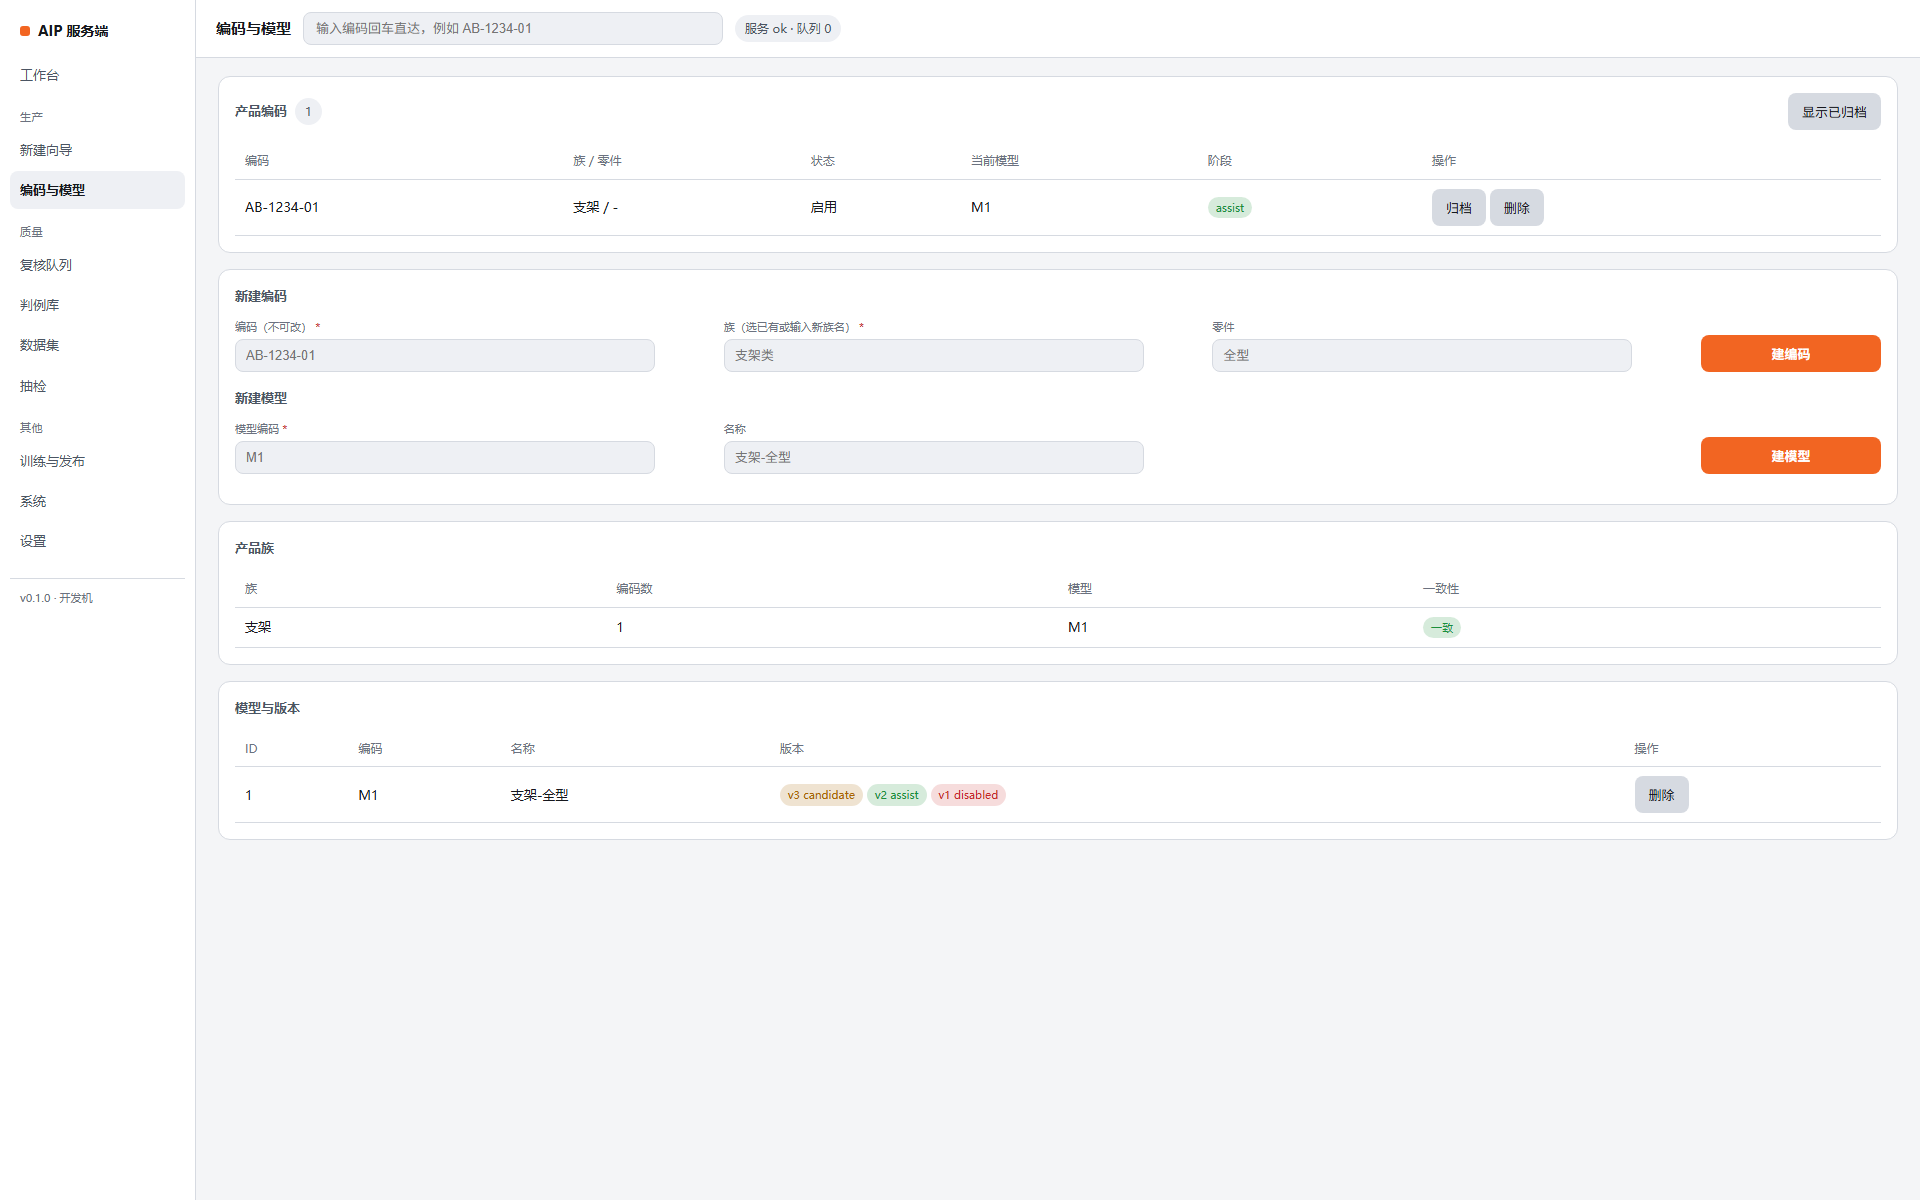
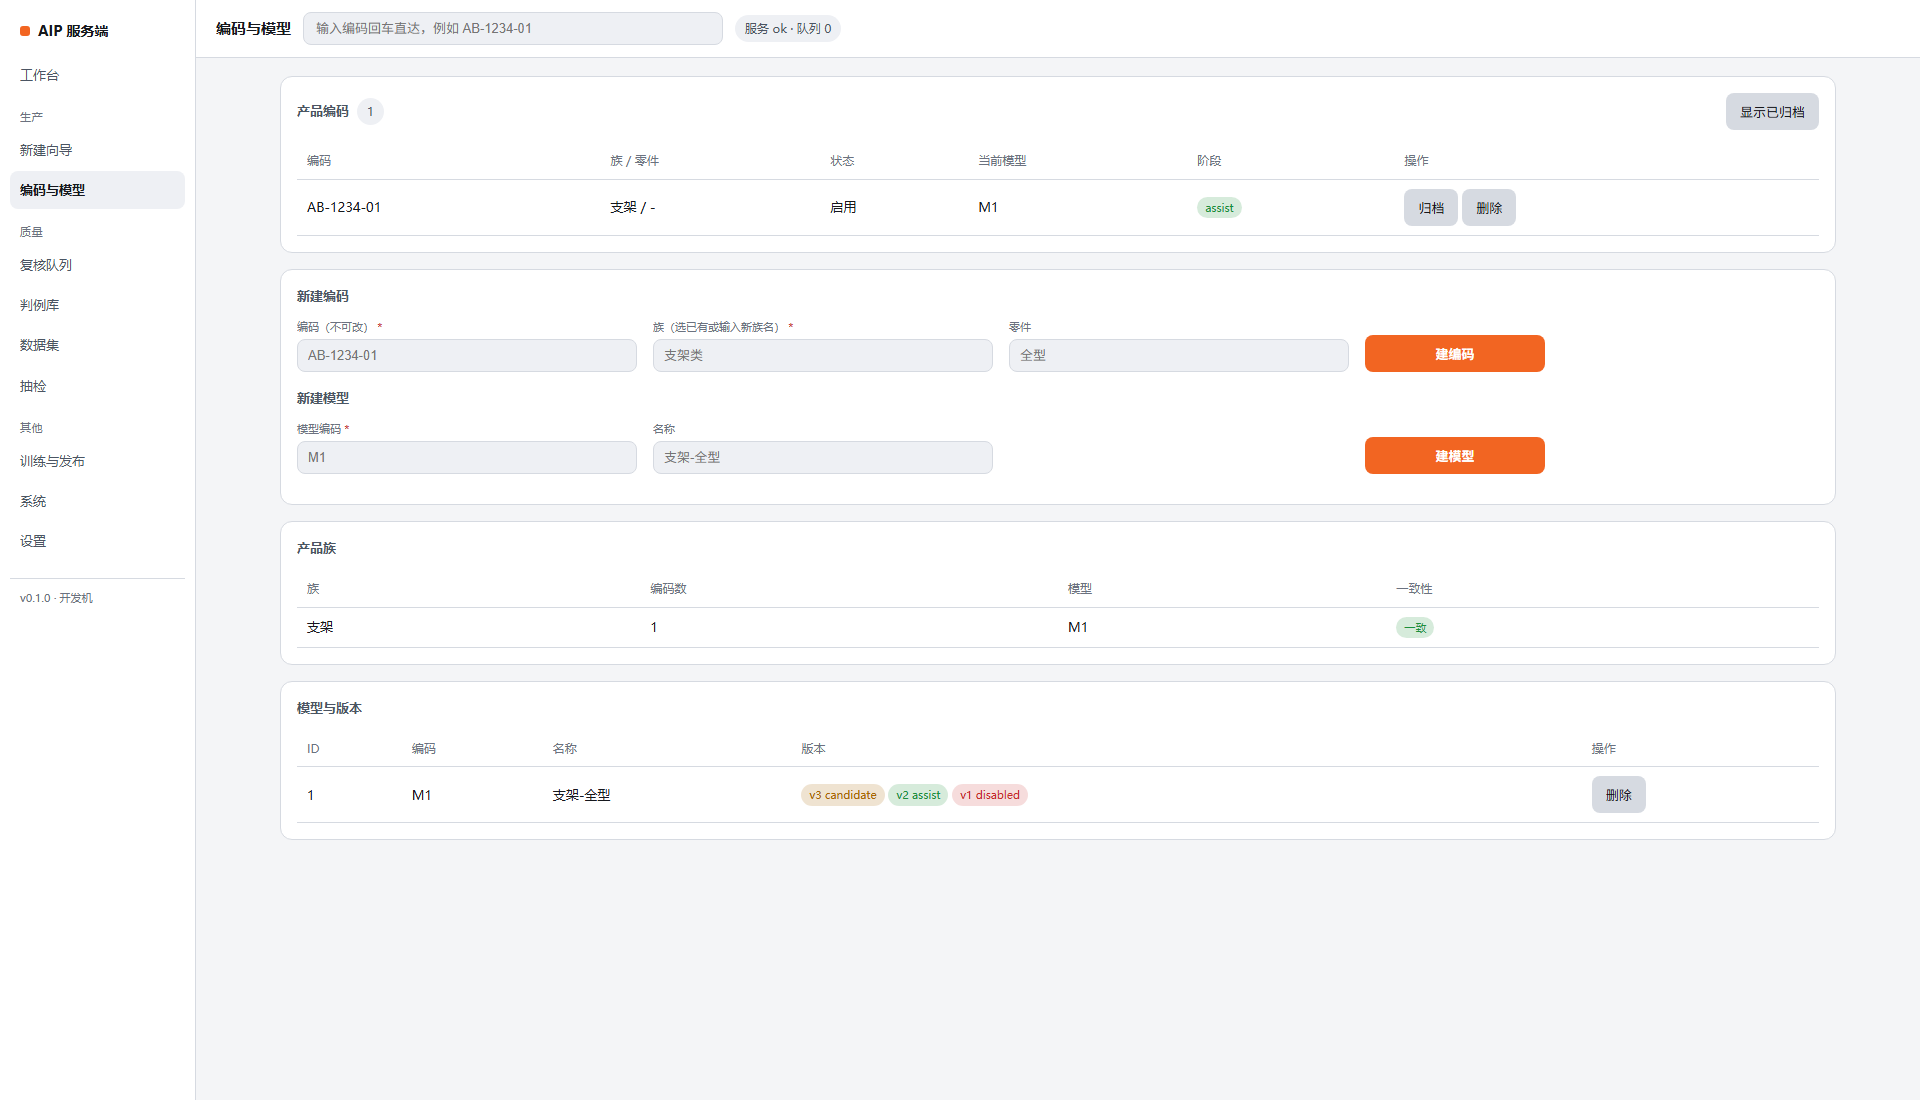
style: 表单定宽列 + 主内容 1600px 居中，收紧布局

diff --git a/aip/web/admin.html b/aip/web/admin.html
@@ -44,7 +44,7 @@
   .search input{width:100%;background:var(--g2);border:1px solid var(--g3);color:var(--t1);border-radius:8px;padding:8px 12px;font-size:13px}
   .pill{padding:4px 10px;border-radius:999px;background:var(--g2);color:var(--t2);font-size:12px}
 
-  main{padding:18px 22px;display:grid;gap:16px;align-content:start}
+  main{padding:18px 22px;display:grid;gap:16px;align-content:start;max-width:1600px;margin:0 auto;width:100%}
   .cards{display:grid;grid-template-columns:repeat(auto-fit,minmax(128px,1fr));gap:10px}
   .card{background:var(--g1);text-decoration:none;color:inherit;display:block;border:1px solid var(--g3);border-radius:12px;padding:14px}
   .card b{display:block;font-size:22px;margin-top:4px;font-variant-numeric:tabular-nums}
@@ -70,22 +70,25 @@
   .form{display:grid;grid-template-columns:repeat(auto-fit,minmax(160px,1fr));gap:12px;align-items:end;margin-bottom:14px}
   .form button{width:100%}
 
-  /* 固定列宽表单：以 1920 为基准
-     - 始终 3 个输入列 + 1 个固定 180px 按钮列，两个表单按钮右边缘对齐
-     - 输入框宽 200–420px（窄屏自动缩小，宽屏封顶）
+  /* 固定列宽表单：以 1920 为基准，整体靠左、不撑满
+     - 3 个输入列，每列 260–340px（不再用 1fr 拉伸）
+     - 按钮固定 180px，两个表单右边缘对齐
+     - 列间距 16px，整块最大宽度 1248px
   */
   .form-grid{
     display:grid;
-    grid-template-columns:repeat(3, minmax(200px, 1fr)) 180px;
-    gap:12px;
+    grid-template-columns:repeat(3, minmax(260px, 340px)) 180px;
+    gap:16px;
     align-items:end;
+    justify-content:start;
+    max-width:1248px;
     margin-bottom:14px;
   }
-  .form-grid input,.form-grid select{min-width:0;max-width:420px}
+  .form-grid input,.form-grid select{min-width:0;max-width:340px}
   .form-grid > div[aria-hidden]{visibility:hidden}
   .form-grid > div:last-child button{width:180px}
-  @media (max-width:1100px){
-    .form-grid{grid-template-columns:1fr 1fr}
+  @media (max-width:1200px){
+    .form-grid{grid-template-columns:repeat(2, minmax(240px, 340px)) 180px}
     .form-grid > div[aria-hidden]{display:none}
     .form-grid > div:last-child{grid-column:1 / -1}
   }
